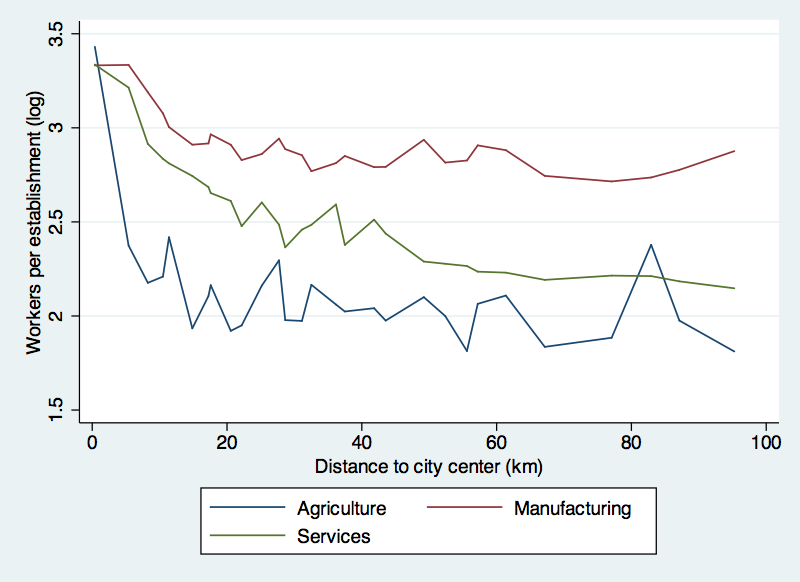
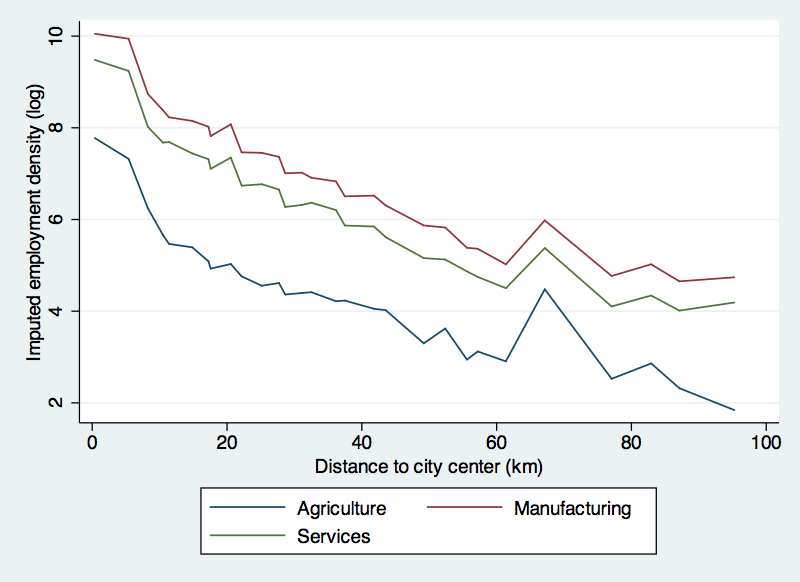
use imputed employment density for rent gradients

diff --git a/text/cattle.tex b/text/cattle.tex
@@ -686,6 +686,27 @@ Let $n_{izc}$ be the employment of industry $i$ in ZIP code $z$, belonging to ci
 The city fixed effect captures variation in rents and wages in the MSA, the sector fixed effect captures variation in land and labor intensity and establishment size across sectors. %XX WE MAY NEED CITY*SECTOR FEs
 The key parameter of interest is $\gamma_i$, which captures how fast employment declines with distance to the center by sector.
 
+\subsubsection{Imputing employment density at the ZIP-code level}
+From the ZBP, we have the approximate employment of the sector (reconstructed from establishment-size bins), and the total area of the ZIP code, but area is not broken down by sector. If a ZIP code is exclusively used by one of the three sector, this is not a problem. Otherwise, we impute the area used by sector $i$ as follows.
+
+The mode predicts the area per worker in sector $i$ in ZIP-code $z$ to be
+\[
+\frac{L_i(z)}{N_i(z)} = \frac{1-\beta_i}{\beta_i}\frac{W}{R(z)}.
+\]
+Because all sectors face the same wages and rents in the same ZIP code, we can distribute land in proportion to
+\[
+\frac{1-\beta_i}{\beta_i}N_i(z).
+\]
+In urban ZIP codes, there is also a substantial amount of residential land. We know that households spend $0.3\times 0.36$ fraction of their income on residential land rent. Assuming that residents' only income are wages,
+\[
+\frac{R(z)H(z)}{WP(z)} = 0.3\times 0.36,
+\]
+where $P(z)$ is the number of people living in ZIP code $z$. Hence total residential area is
+\[
+H(z) = 0.3\cdot0.36 P(z) \frac{W}{R(z)}.
+\]
+We then allocate residential land in proportion to $0.3\cdot0.36 P(z)$.
+
 We estimate \eqref{eq:estimable:gradient} by a Poisson regression which ensures that the equation holds in expectation, and permits estimation even when $n_{izc}=0$, which is often the case. The estimates of $\gamma_i$ and the implied sectoral transport cost intensities $\tau_i$ in the three sectors are below.
 
 % Table generated by Excel2LaTeX from sheet 'tau'
